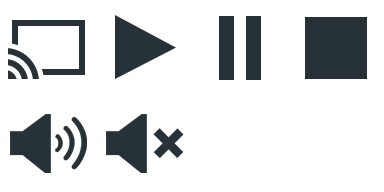
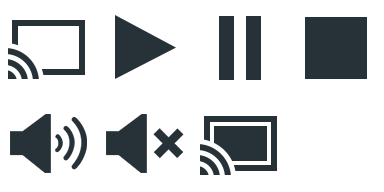
cast on/off, better vis effects

Changed region(s): [[0.5, 0.5938, 0.7188, 0.9375]]

diff --git a/public/servercast.js b/public/servercast.js
@@ -36,13 +36,29 @@ var server = function(){
         player.off('unmute', unmute);
     }
     
-    function handleNowPlaying(data) {
+    function handleNowPlaying(data, justFetched) {
         // disconnect events if connected
         disconnectEvents();
         
         console.log(data);
         
-        //duration && player.setDuration(duration);
+        var state = !!data.state && data.state.toLowerCase(),
+            duration = (data.duration === +data.duration) ? +data.duration : 0;
+        
+        duration && player.setDuration(duration);
+        
+        if (state === 'playing' || state === 'buffering') {
+            player.command.play();
+        } else if (state === 'paused') { 
+            player.command.pause();
+        } else if (state === 'idle') {
+        
+        }
+        
+        if (!justFetched && data.device) {
+            player.command.castOn(data.device);
+            toast.log('Connected to ' + data.device);
+        }
         
         player.enable();
         player.command.play();
@@ -71,12 +87,13 @@ var server = function(){
             connectedDevice = deviceName;
             
             toast.success('Connected to ' + deviceName);
+            player.command.castOn(deviceName);
         });
     }
     
     function nowPlaying(data){
         if (data) {
-            handleNowPlaying(data);
+            handleNowPlaying(data, false);
         } else {
             request.json(endpoint + 'nowPlaying', function(err, data){
                 if (serverError(err, data)) { return; }
@@ -84,7 +101,7 @@ var server = function(){
                 // check to make sure nowPlaying is not `false`
                 if (data.nowPlaying) {
                     try {
-                        handleNowPlaying(data.nowPlaying); 
+                        handleNowPlaying(data.nowPlaying, true); 
                     } catch (e) {
                         console.log(e);
                     }    

diff --git a/server/servercast2.js b/server/servercast2.js
@@ -152,7 +152,7 @@ var api = {
         var mediaData;
             
         if (connectedDevice && connectedDevice.player && connectedDevice.player.media) {
-            var sessionData = connectedDevice.player.media.currentSession;
+            var sessionData = connectedDevice.player.media.currentSession || false;
             var metadata = sessionData.media || {};
 
             console.log(connectedDevice.player.media.currentSession);
@@ -160,14 +160,20 @@ var api = {
             console.log(connectedDevice.player.media);
             console.log('--------------------------');
             
-            
-            if (!sessionData) return { error: 'why?' };
+            // I think this is what it means
+            // TODO make sure the device is still connected
+            if (!sessionData) return { 
+                state: 'IDLE',
+                playing: false,
+                device: connectedDevice.config.name
+            };
             
             mediaData = {
                 duration: metadata.duration,
                 id: metadata.contentId,
                 state: sessionData.playerState || 'UNKNOWN',
-                playing: !!connectedDevice.playing
+                playing: !!connectedDevice.playing,
+                device: connectedDevice.config.name
             };
 
             if (metadata && metadata.metadata && metadata.metadata.title) {

diff --git a/public/controls.js b/public/controls.js
@@ -104,6 +104,16 @@ var player = (function(window){
         unmute: function(){
             dom.volume.classList.add('icon-unmute');
             dom.volume.classList.remove('icon-mute');
+        },
+        castOn: function(name){
+            dom.cast.classList.remove('icon-cast');
+            dom.cast.classList.add('icon-cast-on');
+            dom.cast.setAttribute('data-device', name);
+        },
+        castOff: function(){
+            dom.cast.classList.add('icon-cast');
+            dom.cast.classList.remove('icon-cast-on');
+            dom.cast.removeAttribute('data-device');
         }
     };
     

diff --git a/public/controls.css b/public/controls.css
@@ -65,18 +65,15 @@
     border-radius: 50%;
     margin: 8px;
     
-/*    box-shadow: 0 0 0 8px transparent;*/
-/*
+    /* effects on background icons are a pain */
+    box-shadow: 0 0 0 6px transparent;
     background-color: transparent;
-    transition: background-color 400ms ease-in-out, border-radius 400ms ease-in-out;
-*/
+    transition: background-color 400ms ease-in-out, box-shadow 400ms ease-in-out;
 }
-/*
 #controls .button:hover {
-    box-shadow: 0 0 0 8px #eee;
+    box-shadow: 0 0 0 6px #eee;
     background-color: #eee;
 }
-*/
 
 #controls .track {
     width: 100%;

diff --git a/public/index.html b/public/index.html
@@ -154,6 +154,7 @@
             .icon.icon-cast  { background-position:  0px  0px; }
             .icon.icon-mute { background-position: 96px 32px; }
             .icon.icon-unmute { background-position: 0px 32px; }
+            .icon.icon-cast-on { background-position: 64px 32px; }
             
             .modal_wrapper {
                 position: fixed;
